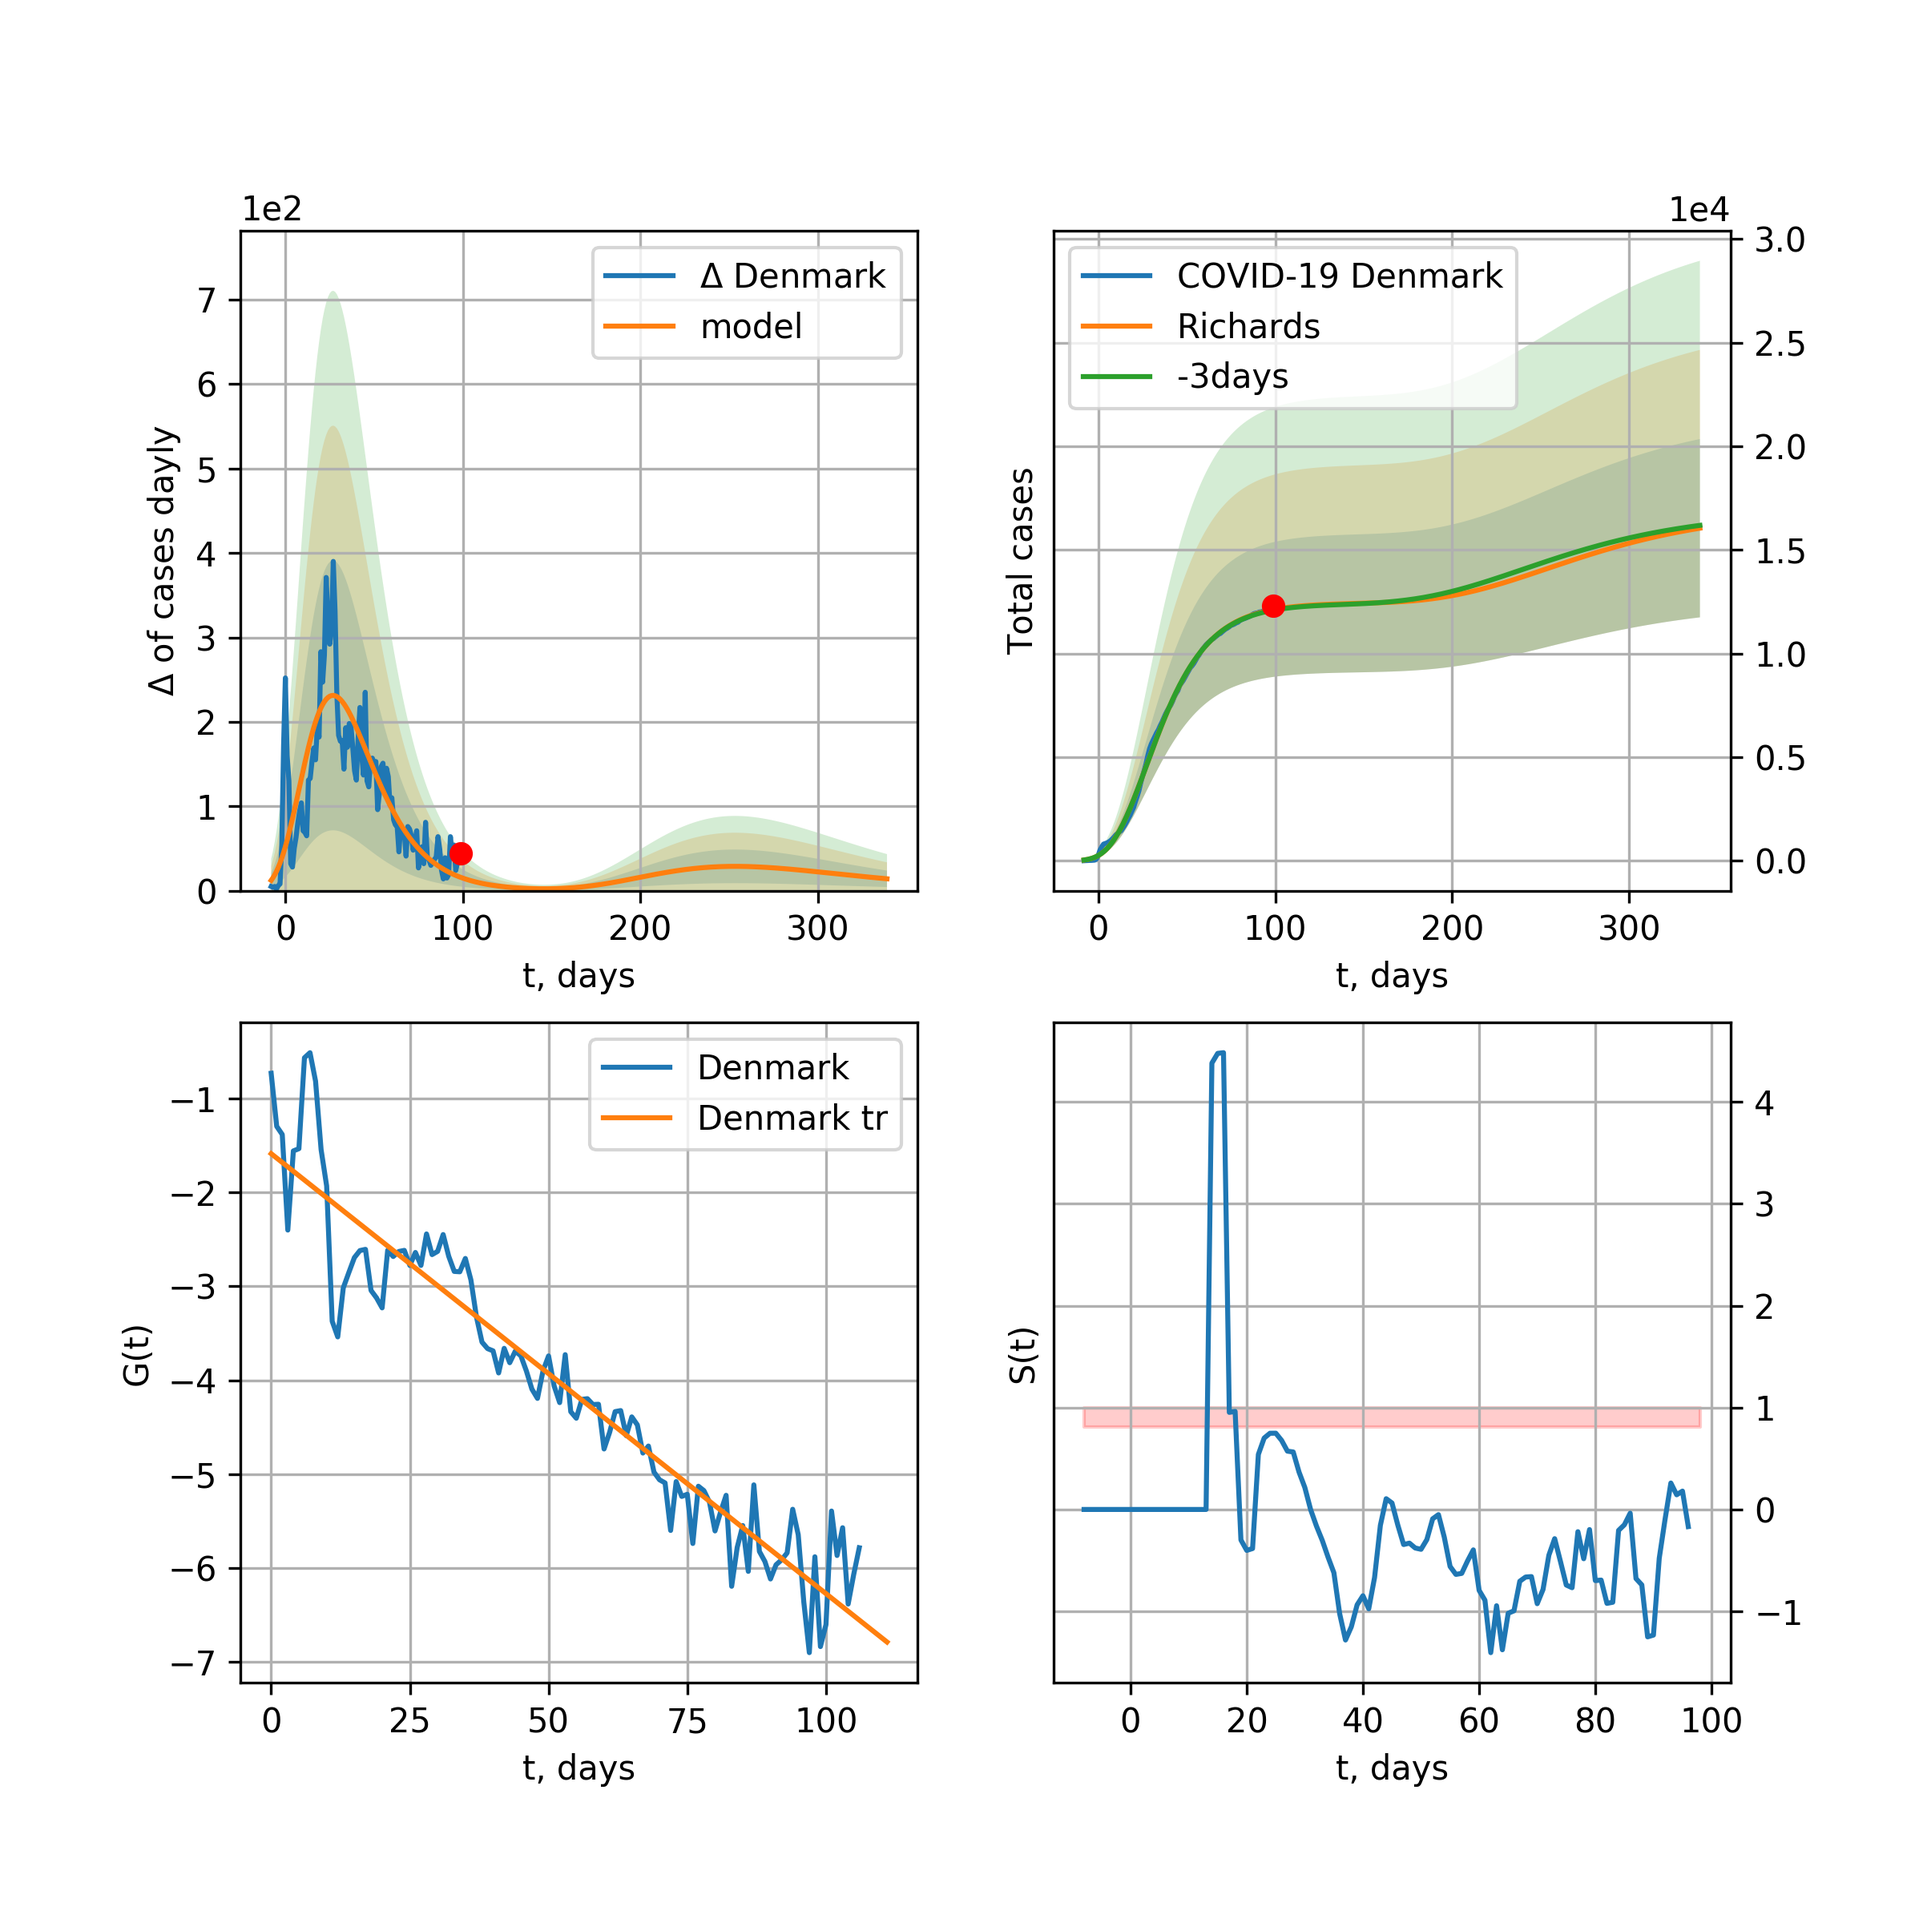
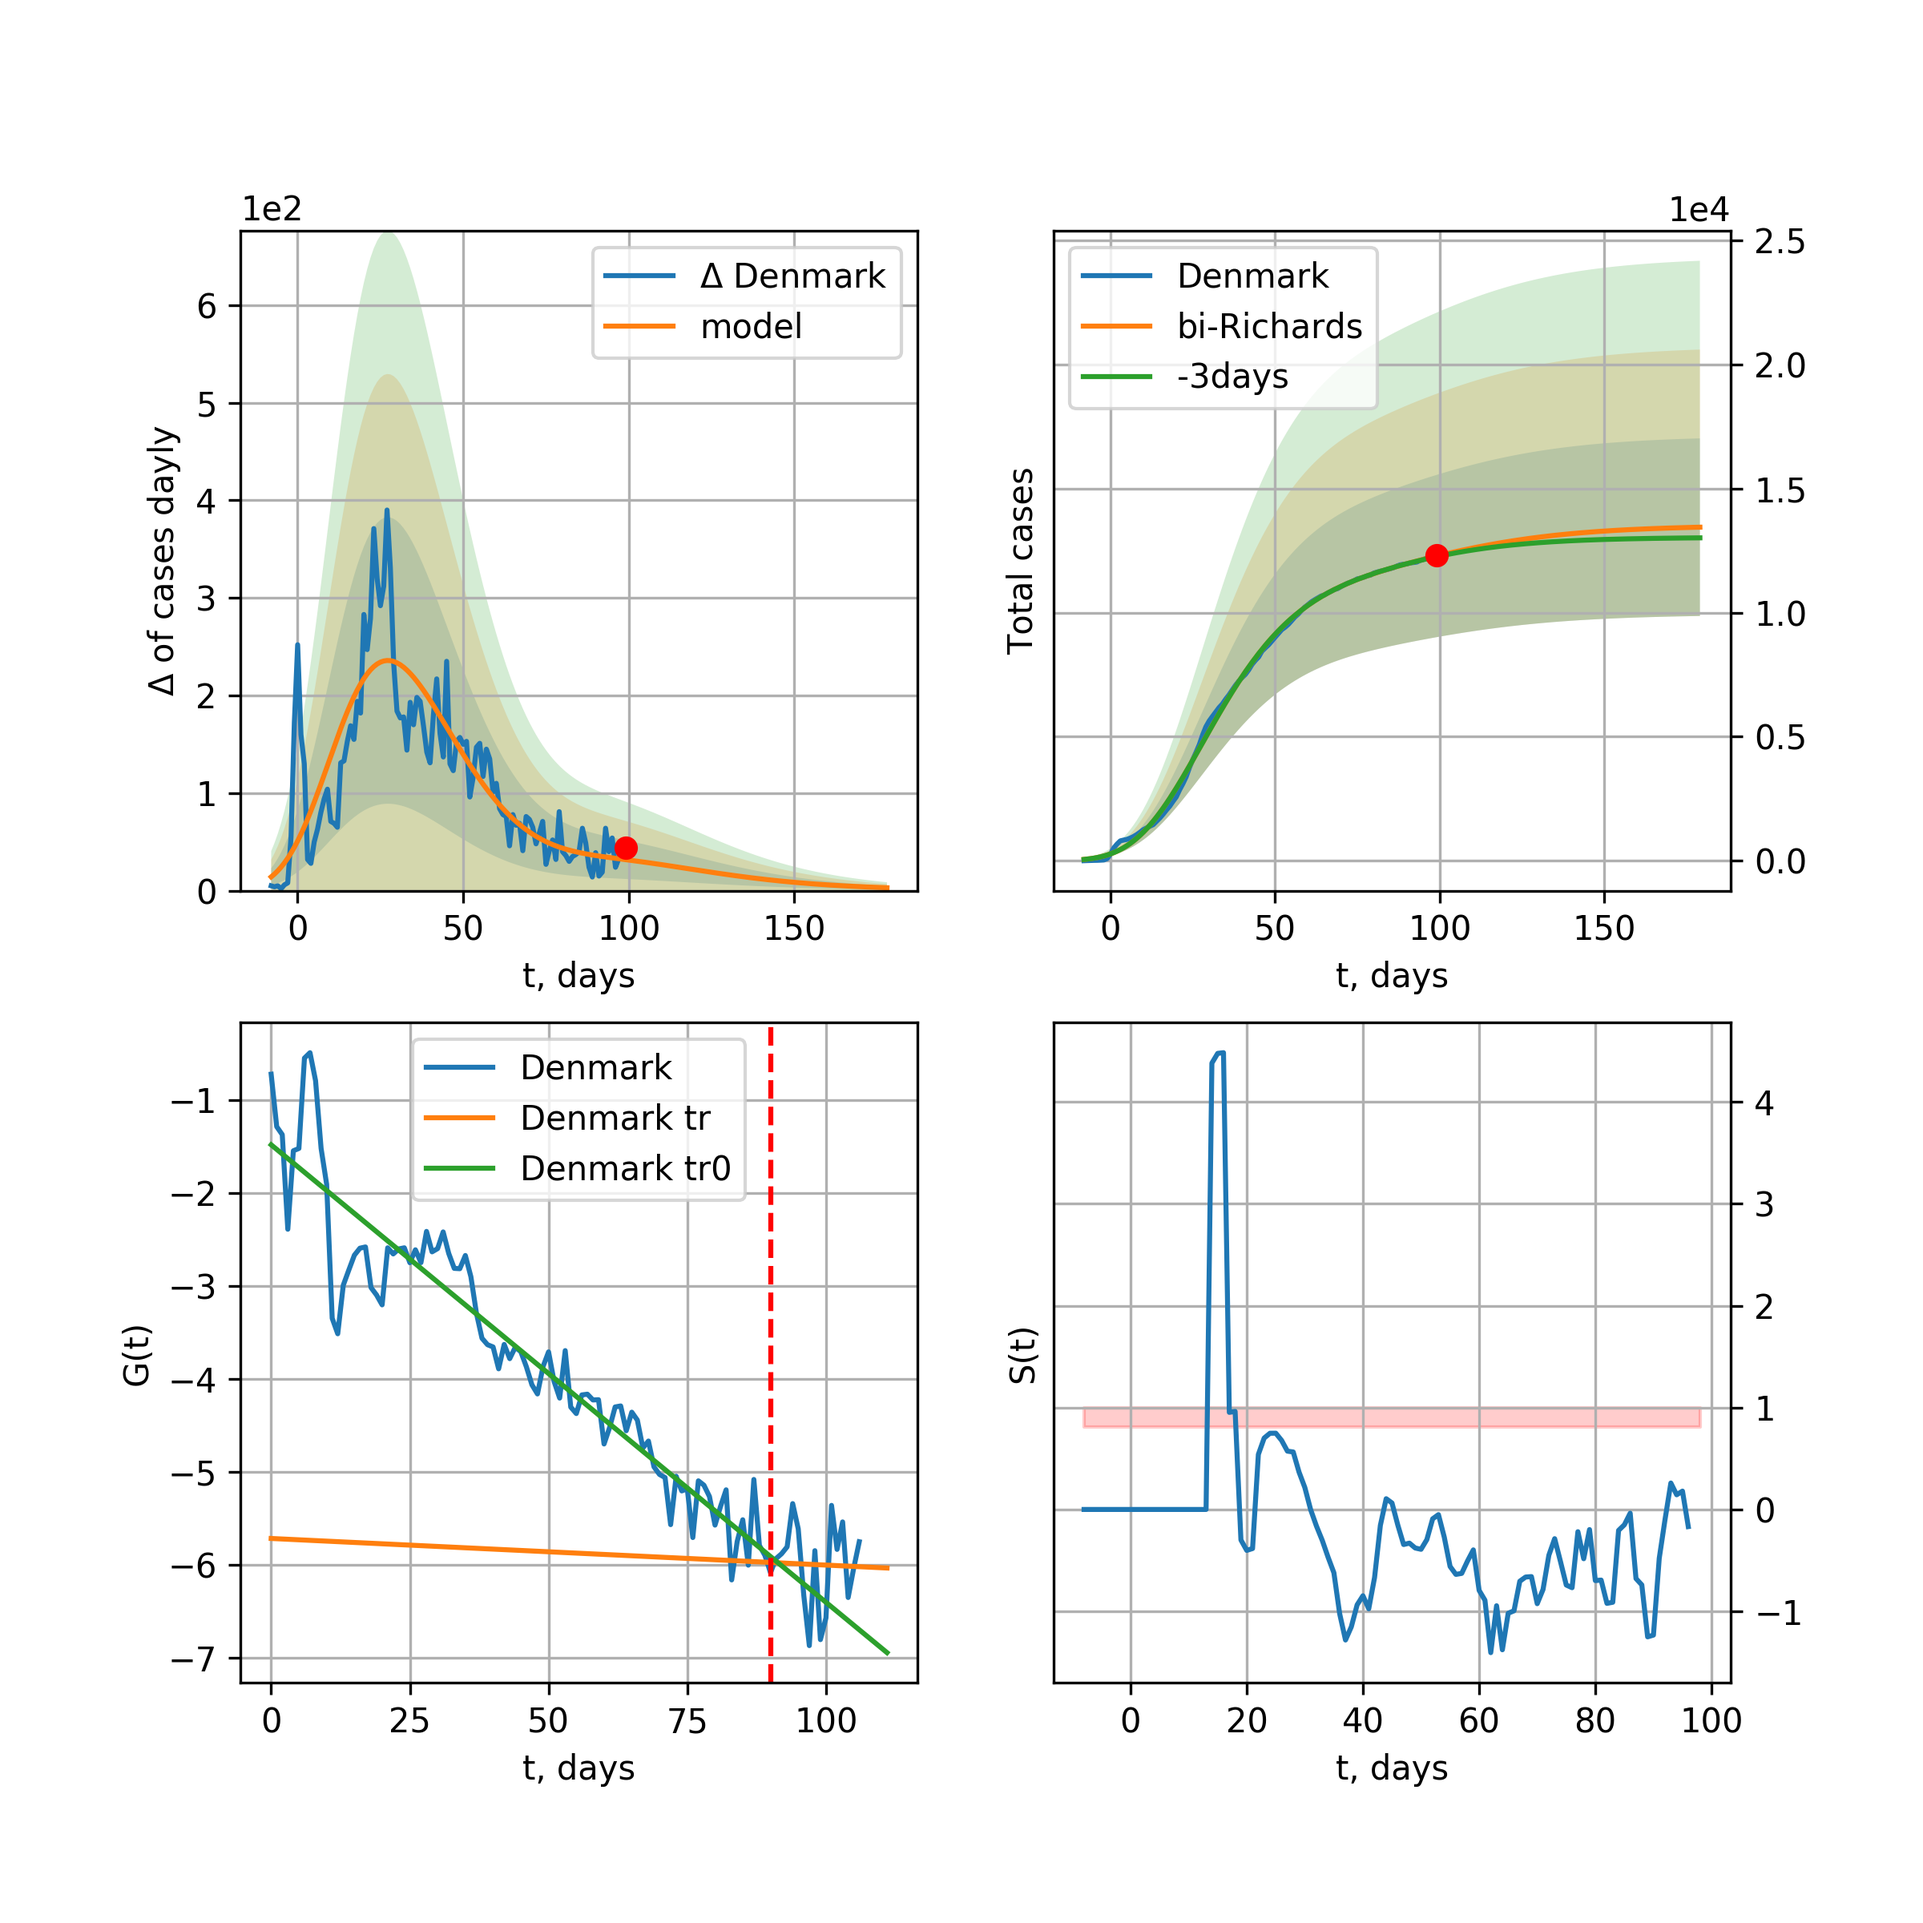
DK renew 2020-06-17

diff --git a/_site/index.html b/_site/index.html
@@ -1002,18 +1002,20 @@ trend coefficient of determination: 0.531945 <br />
     <img src="pictures/covidcasesDenmark36_R.png" alt="hi" class="inline"/><br /> 
 
       Denmark data at: 2020-06-17<br />
-+3 day model MAPE: 0.002566<br />
-model: Richards<br />
-coeffs: [ 1.24418690e+04  3.15286592e+00 -5.36501418e+01  1.61580122e-02]<br />
-S.Korea scenario coeffs: [0.36242246, 2.56241634, 1.84890887, 0.13324732]<br />
-rational stdev: 0.268016<br />
-forecast at the end of period: +241 days<br />
-	 deltaDaycases: 14<br />
-	 total cases: 16048 ± 4301<br />
-	 total death: 780 ± 627<br />
-trend coefficient of determination: 0.909194 <br />
- intercept: -1.586571 <br />
- slope: -0.046870<br />
++3 day model MAPE: 0.002296<br />
+model: bi-Richards<br />
+coeffs: [ 1.40166359e+03  3.20232581e+00 -4.06839125e+00  1.24829834e-02]<br />
+rational stdev: 0.266187<br />
+forecast at the end of period: +80 days<br />
+	 deltaDaycases: 3<br />
+	 total cases: 13440 ± 3577<br />
+	 total death: 653 ± 521<br />
+bi-Richards approximation splitting point: 90<br />
+trend coefficient of determination: 0.894324 <br />
+ intercept: -1.481027 <br />
+ slope: -0.049208<br />trend coefficient of determination: 0.001001 <br />
+ intercept: -5.715198 <br />
+ slope: -0.002863<br />
           <br /> 
     
     Serbia
